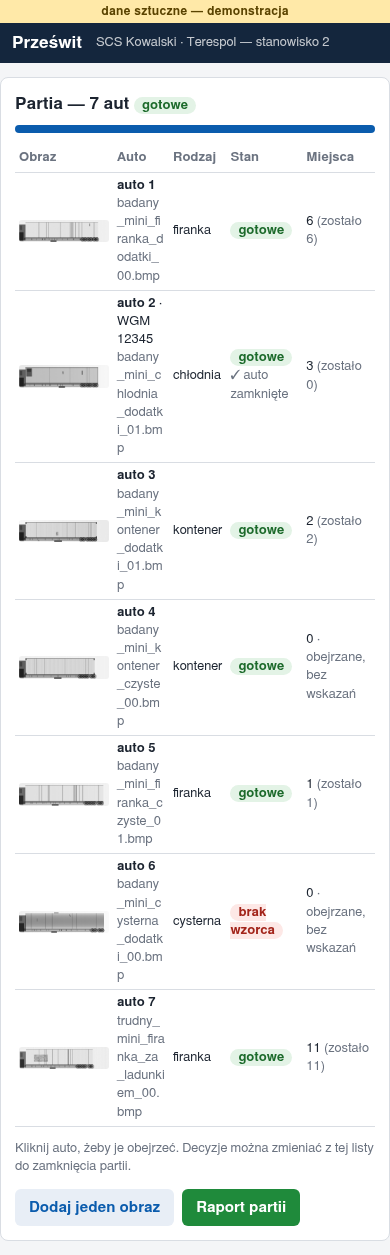
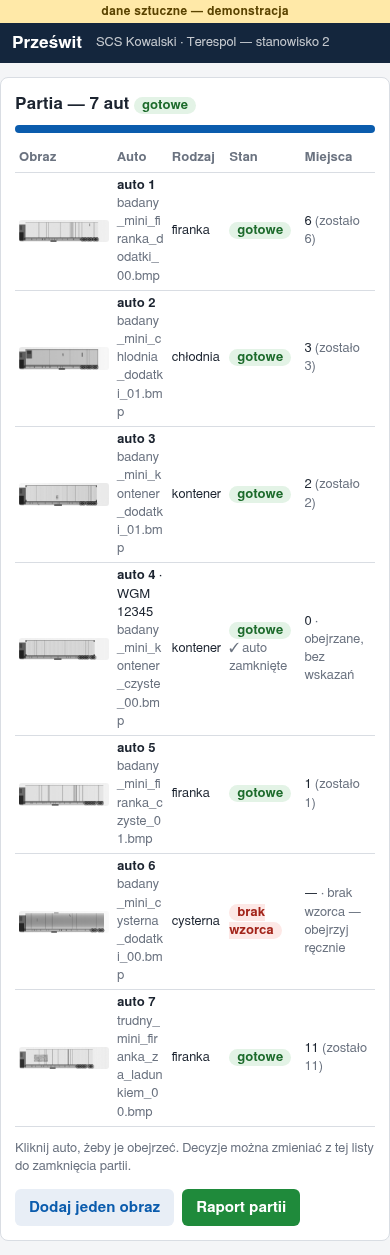
Programista: krytyk R3 braki 2,3,5,6,7 + P80 A (makieta r3, mvp brak 5), zrzuty

diff --git a/makieta/r3/aplikacja.js b/makieta/r3/aplikacja.js
@@ -55,10 +55,13 @@ function liczPoKolei(od) {   // partia liczy się po kolei (P12), wejście w aut
 }
 
 // ---------- E3 ----------
-// P74 A: „brak decyzji” tylko dla auta z nierozstrzygniętymi miejscami; auto bez miejsc (też brak wzorca) = „obejrzane, bez wskazań”
+// P74 A: „brak decyzji” tylko dla auta z nierozstrzygniętymi miejscami; auto bez miejsc = „obejrzane, bez wskazań”; brak wzorca = „brak wzorca — obejrzyj ręcznie” (krytyk R3 brak 2)
 const miejscaAuta = (a) => (brakWzorca(a) ? [] : a.miejsca);
 const bezDecyzji = (a) => !a.zepsuty && miejscaAuta(a).some((_, j) => !a.decyzje[j]);
-const OBEJRZANE = "obejrzane, bez wskazań";
+const OBEJRZANE = "obejrzane, bez wskazań";   // P80 A: dopiero po „Zamknij auto”, z godziną i osobą
+const NIEOTWARTE = "program nic nie wskazał — nieotwarte";   // P80 A: do „Zamknij auto”
+const stanBezMiejsc = (a) => (a.zamkniete ? OBEJRZANE : NIEOTWARTE);
+const BW_RECZNIE = "brak wzorca — obejrzyj ręcznie";   // krytyk R3 brak 2 (E5, P58 A): auto bez wzorca nigdy „bez wskazań”
 function rysujE3() {
   const n = S.partia.length, g = S.partia.filter((a) => !["czeka", "liczy się"].includes(a.stan)).length, gotowa = policzone();
   $("p-ile").textContent = n + " aut";
@@ -77,7 +80,7 @@ function rysujE3() {
       <td>${liczone || a.zepsuty ? "—" : NAZWA[rodz]}</td>
       <td><span class="stan ${cls}">${st}</span>${a.zamkniete && !S.zamknieta ? ' <span class="szary">✓ auto zamknięte</span>' : ""}
         ${a.zepsuty ? '<div class="blad">Nie da się odczytać pliku — to nie jest obraz .bmp albo plik jest uszkodzony. Pozostałe auta liczą się dalej.</div>' : ""}</td>
-      <td>${liczone || a.zepsuty ? "—" : !miejscaAuta(a).length ? `0 <span class="szary">· ${OBEJRZANE}</span>` : a.miejsca.length + (gotowa ? ` <span class="szary">(zostało ${zost})</span>` : "")}</td></tr>`;
+      <td>${liczone || a.zepsuty ? "—" : brakWzorca(a) ? `— <span class="szary">· ${BW_RECZNIE}</span>` : !miejscaAuta(a).length ? `0 <span class="szary">· ${stanBezMiejsc(a)}</span>` : a.miejsca.length + (gotowa ? ` <span class="szary">(zostało ${zost})</span>` : "")}</td></tr>`;
   }).join("");
   $("p-wiersze").querySelectorAll("tr.klik").forEach((t) => (t.onclick = () => otworzAuto(+t.dataset.i)));
   const wszystkieObejrzane = gotowa && S.partia.every((a) => a.zepsuty || a.zamkniete);
@@ -273,7 +276,7 @@ function wierszeRaportu() {
     rodzaj_programu: NAZWA[a.rodzaj] + (Z_WZORCEM.includes(a.rodzaj) ? "" : " (brak wzorca)"), bez_wzorca: brakWzorca(a), rodzaj_operatora: a.rodzajOperatora ? NAZWA[a.rodzajOperatora] : "",
     liczba_miejsc: brakWzorca(a) ? 0 : a.miejsca.length, wynik_przykladowy: !!a.wlasny,
     decyzje: a.miejsca.map((x, i) => ({ nr: i + 1, decyzja: a.decyzje[i]?.d || "brak decyzji", powod: a.decyzje[i]?.powod || "" })),
-    kto: S.kto, miejsce_kontroli: S.miejsce, data_godzina: a.kiedy || "—", brak_decyzji: bezDecyzji(a),
+    kto: a.zamkniete ? S.kto : "—", miejsce_kontroli: S.miejsce, data_godzina: a.zamkniete && a.kiedy ? a.kiedy : "—", zamkniete: a.zamkniete,   // krytyk R3 brak 3 brak_decyzji: bezDecyzji(a),
   }));
 }
 function rysujE7() {
@@ -281,7 +284,7 @@ function rysujE7() {
   $("r-id").textContent = "· " + S.idKontroli;
   $("r-naglowek").textContent = `${S.kto} · ${S.miejsce} · ${w.length} aut · ${S.zamknieta ? "partia zamknięta" : "partia otwarta"}`;
   $("r-wiersze").innerHTML = w.map((r) => `<tr><td>auto ${r.auto}${r.wynik_przykladowy ? '<br><span class="szary">próba wgrania — wynik przykładowy (makieta)</span>' : ""}</td><td>${r.nr_rej ? esc(r.nr_rej) : '<span class="szary">—</span>'}</td><td>${r.rodzaj_programu}</td><td>${r.rodzaj_operatora || "—"}</td>
-    <td>${r.liczba_miejsc}</td><td>${r.decyzje.map((d) => `${d.nr}: ${d.decyzja}${d.powod ? " (" + esc(d.powod) + ")" : ""}`).join("<br>") || (r.bez_wzorca ? "brak wzorca — " + OBEJRZANE : OBEJRZANE)}</td>
+    <td>${r.liczba_miejsc}</td><td>${r.decyzje.map((d) => `${d.nr}: ${d.decyzja}${d.powod ? " (" + esc(d.powod) + ")" : ""}`).join("<br>") || (r.bez_wzorca ? BW_RECZNIE : r.zamkniete ? OBEJRZANE : NIEOTWARTE)}</td>
     <td>${r.kto}</td><td>${r.miejsce_kontroli}</td><td>${r.data_godzina}</td></tr>`).join("");
   $("zapisz").style.display = S.zamknieta ? "none" : ""; $("r-nowa").style.display = S.zamknieta ? "" : "none";
   const braki = w.filter((r) => r.brak_decyzji);
@@ -314,9 +317,11 @@ $("r-lista").onclick = () => { S.potwierdz = false; ekran("E3"); rysujE3(); };
 ekran("E1");
 
 // ---------- P73 A / P76 A: etykiety ramek ----------
-// Numer i słowo w jednej małej etykiecie OBOK ramki (nad, pod, z prawej, z lewej — pierwsze wolne miejsce w obrazie),
-// bez nakładania na inne etykiety i ramki; gdy nie ma miejsca na „nr słowo”, zostaje sam numer (pełny opis jest w kafelku).
+// Sam numer miejsca (P79 B: bez słów poziomu) w małej etykiecie OBOK ramki (nad, pod, z prawej, z lewej — pierwsze wolne
+// miejsce w obrazie), bez nakładania na inne etykiety i ramki; gdy ciasno — w ramce od środka (pełny opis jest w kafelku).
 const nachodzi = (q, lista) => lista.some((z) => q.x < z.x + z.w && z.x < q.x + q.w && q.y < z.y + z.h && z.y < q.y + q.h);
+const ODSTEP = 4;   // krytyk R3 brak 6: etykiety nie stykają się (także telefon)
+const zOdstepem = (q) => ({ x: q.x - ODSTEP, y: q.y - ODSTEP, w: q.w + 2 * ODSTEP, h: q.h + 2 * ODSTEP });
 const prost = (r) => ({ x: r.offsetLeft, y: r.offsetTop, w: r.offsetWidth, h: r.offsetHeight });
 function ulozEtykiety(id) {
   const ob = $(id), Wp = ob.clientWidth, Hp = ob.clientHeight, etykiety = [];
@@ -330,14 +335,14 @@ function ulozEtykiety(id) {
       sp.textContent = tekst; const w = sp.offsetWidth, h = sp.offsetHeight;
       const kand = [[R.x, R.y - h - g], [R.x + R.w - w, R.y - h - g], [R.x, R.y + R.h + g], [R.x + R.w - w, R.y + R.h + g],
         [R.x + R.w + g, R.y], [R.x - w - g, R.y], [R.x + R.w + g, R.y + R.h - h], [R.x - w - g, R.y + R.h - h]];
-      const dobra = kand.find(([x, y]) => x >= 0 && y >= 0 && x + w <= Wp && y + h <= Hp && !nachodzi({ x, y, w, h }, etykiety) && !nachodzi({ x, y, w, h }, inne));
+      const dobra = kand.find(([x, y]) => x >= 0 && y >= 0 && x + w <= Wp && y + h <= Hp && !nachodzi(zOdstepem({ x, y, w, h }), etykiety) && !nachodzi({ x, y, w, h }, inne));
       if (dobra) return ustaw(dobra[0], dobra[1], w, h);
     }
     // ciasno (np. telefon 1×): sam numer w pierwszym miejscu w obrazie, które nie zasłania innej etykiety
     sp.textContent = sp.dataset.krotki; const w = sp.offsetWidth, h = sp.offsetHeight;
-    const kand = [[R.x, R.y - h - g], [R.x, R.y + R.h + g], [R.x + R.w + g, R.y], [R.x - w - g, R.y], [R.x + 1, R.y + 1]]
+    const kand = [[R.x, R.y - h - g], [R.x, R.y + R.h + g], [R.x + R.w + g, R.y], [R.x - w - g, R.y], [R.x + R.w - w, R.y - h - g], [R.x + R.w - w, R.y + R.h + g], [R.x + 1, R.y + 1], [R.x + R.w - w - 1, R.y + R.h - h - 1]]
       .map(([x, y]) => [Math.min(Math.max(0, x), Wp - w), Math.min(Math.max(0, y), Hp - h)]);
-    const [x, y] = kand.find(([x, y]) => !nachodzi({ x, y, w, h }, etykiety)) || kand[0];
+    const [x, y] = kand.find(([x, y]) => !nachodzi(zOdstepem({ x, y, w, h }), etykiety)) || kand.find(([x, y]) => !nachodzi({ x, y, w, h }, etykiety)) || kand[0];
     ustaw(x, y, w, h);
   });
 }
@@ -353,7 +358,7 @@ function przypnijEtykiete() {
     let wy = $(ob).querySelector(".wycinek");
     if (!ciecie) { if (wy) wy.remove(); }
     else {
-      if (!wy) { wy = document.createElement("div"); wy.className = "wycinek " + [...r.classList].filter((c) => /^s\d$/.test(c)).join(" "); $(ob).appendChild(wy); }
+      if (!wy) { wy = document.createElement("div"); wy.className = "wycinek " + [...r.classList].filter((c) => /^s\d$/.test(c)).join(" "); wy.innerHTML = '<span class="wskaz">ramka większa niż widok</span>'; $(ob).appendChild(wy); }   // krytyk R3 brak 5
       const x0 = Math.max(R.x, V.x), y0 = Math.max(R.y, V.y), x1 = Math.min(R.x + R.w, V.x + V.w), y1 = Math.min(R.y + R.h, V.y + V.h);
       Object.assign(wy.style, { left: x0 + "px", top: y0 + "px", width: Math.max(0, x1 - x0) + "px", height: Math.max(0, y1 - y0) + "px" });
     }

diff --git a/mvp/widok-auta/widok.js b/mvp/widok-auta/widok.js
@@ -118,6 +118,9 @@
       const pr = (o) => [o.x0, o.y0, o.x1, o.y1].map((v) => v.toFixed(1)).join(",");
       const duch = rw ? `<div class="ramka-wz" style="left:${(rw.x0 / szer * 100).toFixed(2)}%;top:${(rw.y0 / wys * 100).toFixed(2)}%;width:${(Math.max(12, rw.x1 - rw.x0) / szer * 100).toFixed(2)}%;height:${(Math.max(12, rw.y1 - rw.y0) / wys * 100).toFixed(2)}%" title="to samo miejsce na wzorcu"></div>` : "";
       const brakWzorca = Boolean(wynik.brak_wzorca);
+      // krytyk R3 brak 5: ramka wybranego miejsca nie mieści się w oknie przybliżenia → wskazówka przy ramce
+      const wieksza = wyb && (wyb.x0 < lp.badany.x0 || wyb.y0 < lp.badany.y0 || wyb.x1 > lp.badany.x1 || wyb.y1 > lp.badany.y1);
+      const wskazCiecie = wieksza ? '<div class="wskaz-ciecie">ramka większa niż widok</div>' : "";
       const rodzajOpis = l.rodzaj ? (NAZWA_RODZAJU[l.rodzaj] || l.rodzaj) : "brak wzorca";
       const ramkiHtml = lista
         .map((m) => {
@@ -182,6 +185,7 @@
                 <img src="${dane.obrazBadany}" alt="Obraz badany: ${wynik.plik}">
                 <div class="warstwa-ramek">${ramkiHtml}</div>
               </div>
+              ${wskazCiecie}
             </div>
           </div>
           ${
@@ -194,6 +198,7 @@
                       <img src="${dane.obrazWzorca}" alt="Wzorzec: ${l.wzorzec || rodzajOpis}">
                       <div class="warstwa-ramek">${duch}</div>
                     </div>
+                    ${wskazCiecie}
                   </div>
                 </div>`
           }

diff --git a/makieta/r3/index.html b/makieta/r3/index.html
@@ -35,7 +35,7 @@ td img.mini{width:150px;border-radius:3px;display:block;background:#000;min-heig
 @media (max-width:600px){td img.mini{width:64px}td,th{padding:4px;font-size:13px}#p-wiersze td:nth-child(2) .szary{word-break:break-all}.karta{overflow-x:auto}}
 .nrinfo:empty{display:none}.nrinfo{background:#fde8e6;color:#a2241a;font-weight:600;font-size:13px;padding:3px 8px;border-radius:5px}
 .ramka span{font-size:10px;line-height:13px;padding:0 3px;z-index:3}.ramka span.przyp{box-shadow:0 0 0 1px #fff}
-.ramka.wyb.ciecie{outline:none}.wycinek{position:absolute;pointer-events:none;border:3px solid var(--s1);outline:2px dashed #fff;outline-offset:-6px;box-sizing:border-box;z-index:1}.wycinek.s2{border-color:var(--s2)}.wycinek.s3{border-color:var(--s3)}
+.ramka.wyb.ciecie{outline:none}.wycinek{position:absolute;pointer-events:none;border:3px solid var(--s1);outline:2px dashed #fff;outline-offset:-6px;box-sizing:border-box;z-index:1}.wycinek .wskaz{position:absolute;right:6px;top:6px;line-height:16px;font-weight:600;background:rgba(0,0,0,.72);color:#fff;font-size:12px;padding:2px 6px;border-radius:3px;white-space:nowrap}.wycinek.s2{border-color:var(--s2)}.wycinek.s3{border-color:var(--s3)}
 .przyciski{display:flex;gap:8px;flex-wrap:wrap;align-items:center;margin-top:12px}
 @media(max-width:700px){.dwa{grid-template-columns:1fr}.wzorce{grid-template-columns:1fr}td img.mini{width:90px}}
 </style></head><body>

diff --git a/makieta/r3/dane.js b/makieta/r3/dane.js
@@ -1,7 +1,7 @@
-// Makieta R2 — udawane dane (dane sztuczne z dane/mini i dane/mini-trudny, PNG w obrazy/).
+// Makieta R3 — udawane dane (dane sztuczne z dane/mini i dane/mini-trudny, PNG w obrazy/).
 // Auta 1–6: ramki wpisane na sztywno (R1) + jedno pudło obok prawdziwego dodatku w aucie 1 (P67 A).
 // Auto 7 (przypadek trudny, P60 B): ramki z prawdziwego wyniku programu v3 (zadanie 20, najlepsza konfiguracja).
-// Słowo różnicy wg P45 B: stałe progi siły, te same w każdym aucie (wartości — zadanie 32/P49; tu dowolne na makietę).
+// Kolejność miejsc od najmocniejszego (P79 B): bez słów i progów poziomu na ekranie; sila służy tylko do sortowania.
 const W = 1024, H = 256;
 // P79 B: bez słów niski/średni/wysoki — miejsca tylko w kolejności od najmocniejszego, jeden kolor ramek
 const POWODY = ["element konstrukcji", "zgłoszony ładunek", "błąd obrazu", "nakładanie się ładunku", "inny"]; // P13

diff --git a/mvp/widok-auta/index.html b/mvp/widok-auta/index.html
@@ -49,6 +49,7 @@ main{max-width:1280px;margin:12px auto;padding:0 12px}
 .wiecej-pasek{margin-top:10px;padding-top:10px;border-top:1px dashed var(--linia)}
 .btn-wiecej{background:#eef3fa;color:#14468c;border:1px solid #b9d0ef;border-radius:6px;padding:7px 14px;font-size:13px;font-weight:600;cursor:pointer}
 .btn-wiecej:hover{background:#dfeaf8}
+.wskaz-ciecie{position:absolute;right:6px;top:6px;line-height:16px;font-weight:600;background:rgba(0,0,0,.72);color:#fff;font-size:12px;padding:2px 6px;border-radius:3px;pointer-events:none;z-index:3}
 .komunikat{padding:14px 16px;border-radius:6px;font-size:15px;font-weight:600}
 .komunikat.brak-wzorca{background:#fff3d6;color:#7a4b00;border:1px solid #e6c278}
 .komunikat.brak-wskazan{background:#eef5ff;color:#164178;border:1px solid #b8d1f2}

diff --git a/docs/decyzje.md b/docs/decyzje.md
@@ -476,3 +476,5 @@ P80 15:20 odpowiedź: A — do otwarcia auta stan to „program nic nie wskazał
 15:23 Projektant: oddaję krok 8 — docs/pm/08-wizja.md (a wizja, b 6 części JTBD, c 5 zdań dla Prezentera); bez nowych pytań P; zgodne z P58 A i P79 B
 15:24 Szef: krok 8 przyjęty do recenzji (znaczniki product-vision, value-proposition są) — recenzja przejścia R1 → Analityk; zadanie dla Prezentera po recenzji.
 15:24 Analityk: recenzja kroku 8 R1 — docs/pm/08-wizja.md względem 07-pre-mortem.md, spec.md, P1–P80 — P58 A i P79 B zgodne (brak gwarancji, brak słów poziomu; grep czysty), P80 A pominięte; 5 braków: (1) produkt: „Uczciwe granice” — „na czystym aucie bywa do 6 ramek (P30)” przeczy 07/R1 i v3 (zad. 20): ramki na czystym śr. 5,8 / 6,25, maks. 19 / 15, ≤ 6 tylko na 22/32 (69%) i 20/40 (50%); ma być P57 A: 6 najsilniejszych + „i jeszcze N miejsc — pokaż”; (2) produkt: „cel ≥ 90 na 100 wskazanych (P31)” — P31 to przeoczenia ≤ 10%; v3: 7,8% (5/64) i 9,7% (6/62), czyli cel spełniony tuż przy progu, mały dodatek 6/42; brak wyniku zamiast celu i brak Z8 (trafienie w pierwszych 6: 80%, w pierwszych 3: 48%) — a wizja stoi na kolejności; (3) produkt: wizja nie zna P80 A (stan „program nic nie wskazał — nieotwarte” do otwarcia auta, „obejrzane, bez wskazań” dopiero po „Zamknij auto”, z godziną i osobą); cytat „nic nie wskazałem, obejrzyj sam” nie jest brzmieniem ekranu (P58 A: „brak wskazań — to nie gwarancja, że auto jest czyste; obejrzyj obraz sam”); „raport zapisuje się sam” wobec P55 B (przycisk „Zapisz i zamknij partię”) i P80 A; (4) produkt: „Całość działa bez internetu” (część 4, zdanie 5 dla Prezentera) w czasie teraźniejszym — P25 A: „docelowo”; MVP idzie przez ksefbot.pl i kartę OMENa (spec §Działanie, A12); (5) produkt: „widzi skrytkę, której sam nie zauważył”, „przybliża miejsce lupą” bez granicy — S1 brzegowy (mały dodatek w lupie, R20, blokuje wg P50) niewykonany; „nowy funkcjonariusz uczy się od wzorca” bez źródła w ustaleniach. Braki „produkt” 1–5 → Projektant.
+15:23 Programista: poprawki R3 wg krytyka (docs/pm/krytyk-r3.md) + P80 A, w miejscu w makieta/r3 (bez r4): brak 2 — auto bez wzorca (cysterna) na liście i w raporcie „brak wzorca — obejrzyj ręcznie” (E5/P58 A), nigdy „bez wskazań”; brak 3 — „Kto” i data/godzina w raporcie (ekran, .json, .csv) dopiero po „Zamknij auto”, wcześniej „—”; brak 5 — przy 4× przy przyciętej ramce wskazówka „ramka większa niż widok” (makieta i mvp/widok-auta, oba widoki); brak 6 — odstęp 4 px między etykietami (telefon auto 1: 1 i 2 się nie stykają), nowe zrzuty auto7.png i telefon-auto7.png; brak 7 — komentarze aplikacja.js/dane.js po P79 B; P80 A — auto bez miejsc do „Zamknij auto”: „program nic nie wskazał — nieotwarte”, po zamknięciu „obejrzane, bez wskazań” z osobą i godziną. Brak 1 = P80 A. MVP (mvp/widok-auta): brak 5 zrobiony; braki 2/3/P80 nie dotyczą (MVP nie ma listy partii ani raportu, brak wzorca ma tam własny komunikat E5); brak 6 — w MVP numer stoi w środku własnej ramki. Zrzuty: docs/zrzuty/r3/{lista,auto1,auto7,auto7-zoom4-miejsce6,raport,telefon-lista,telefon-auto1,telefon-auto7,mvp-zoom4-ramka-wieksza}.png. https://pawelpisarek.github.io/hacknation-proba17/makieta/r3/ — HTTP 200 (curl po pushu gh-pages 9e045e4)
+PARAMETR: stan auta bez miejsc otwartego, ale niezamkniętego = „program nic nie wskazał — nieotwarte” (jak przed otwarciem; P80 A mówi tylko „do otwarcia” i „po Zamknij auto”) — do Artura
